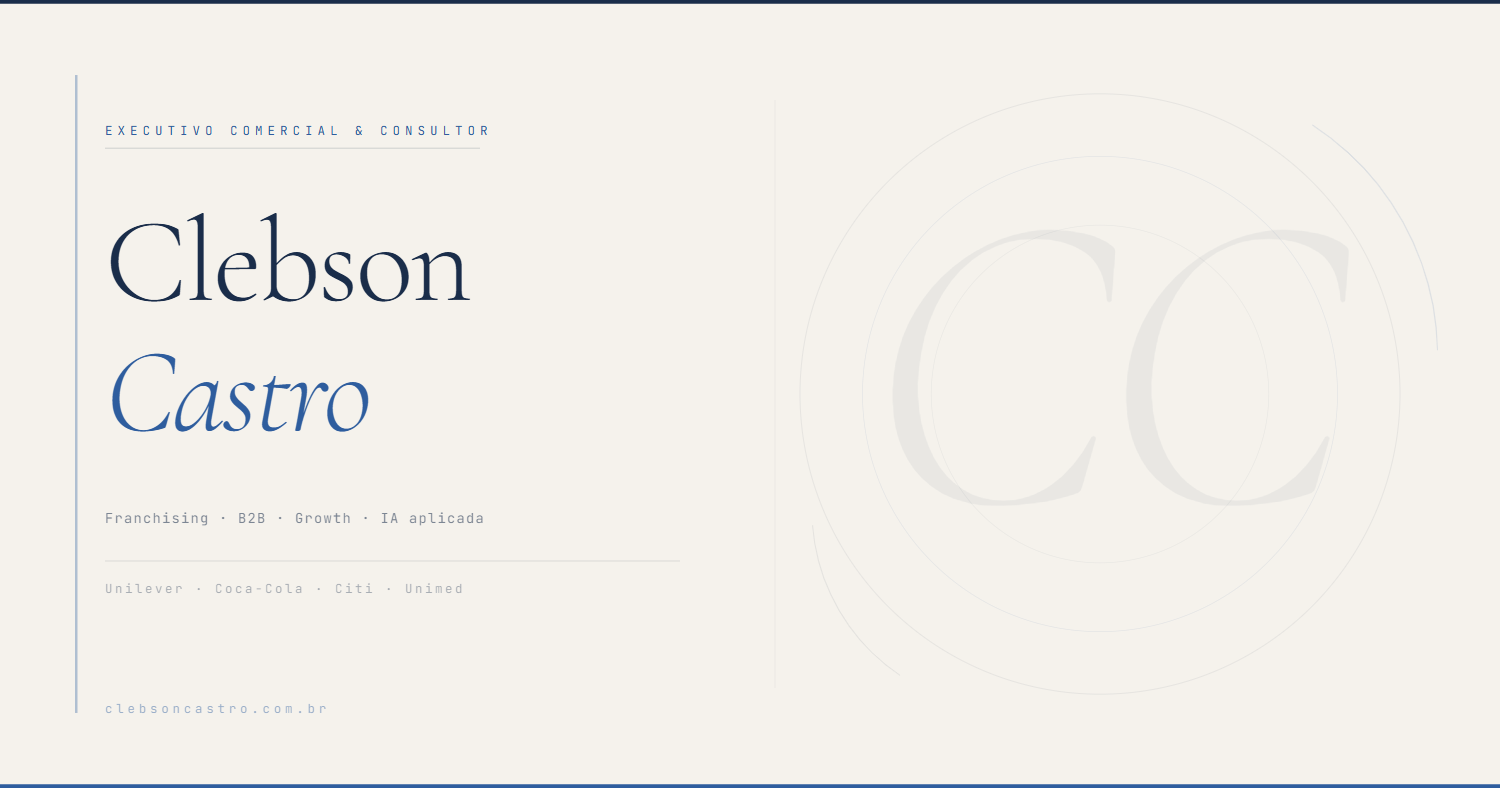
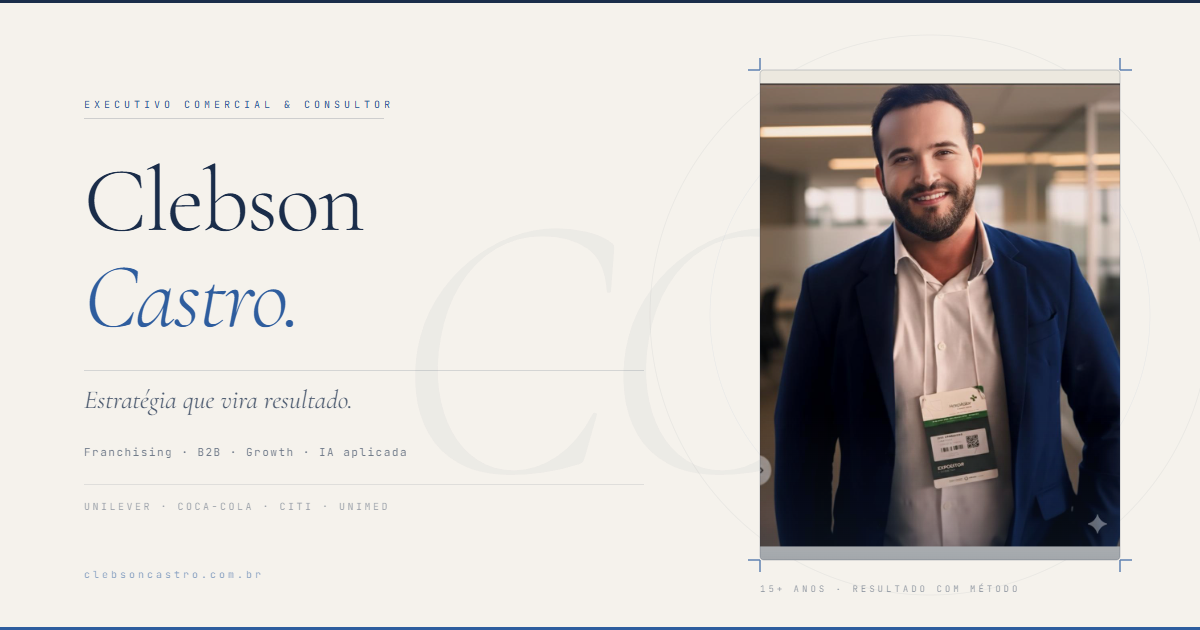
feat: nova OG image editorial com foto e cache-bust v3
- og-index.svg redesenhado: foto vertical em frame com corner ticks, nome em Cormorant, tagline e brand row
- og-index.png regerado 1200x630
- meta og:image e twitter:image com ?v=3 para forçar re-scrape

diff --git a/index.html b/index.html
@@ -17,7 +17,7 @@
   <meta property="og:title" content="Clebson Castro — Consultor Estratégico & Executivo Comercial">
   <meta property="og:description"
     content="Estratégia que vira resultado. 15+ anos em Unilever, Coca-Cola, Citi e Unimed. Franchising, Expansão B2B, Growth e IA aplicada.">
-  <meta property="og:image" content="https://clebsoncastro.com.br/images/og-index.png">
+  <meta property="og:image" content="https://clebsoncastro.com.br/images/og-index.png?v=3">
   <meta property="og:image:width" content="1200">
   <meta property="og:image:height" content="630">
   <meta property="og:image:alt" content="Clebson Castro — Consultor Estratégico e Executivo Comercial">
@@ -32,7 +32,7 @@
   <meta name="twitter:title" content="Clebson Castro — Consultor Estratégico & Executivo Comercial">
   <meta name="twitter:description"
     content="Estratégia que vira resultado. 15+ anos em Unilever, Coca-Cola, Citi e Unimed. Franchising, B2B, Growth.">
-  <meta name="twitter:image" content="https://clebsoncastro.com.br/images/og-index.png">
+  <meta name="twitter:image" content="https://clebsoncastro.com.br/images/og-index.png?v=3">
   <meta name="twitter:image:alt" content="Clebson Castro — Consultor Estratégico e Executivo Comercial">
 
   <!-- Google Fonts -->
